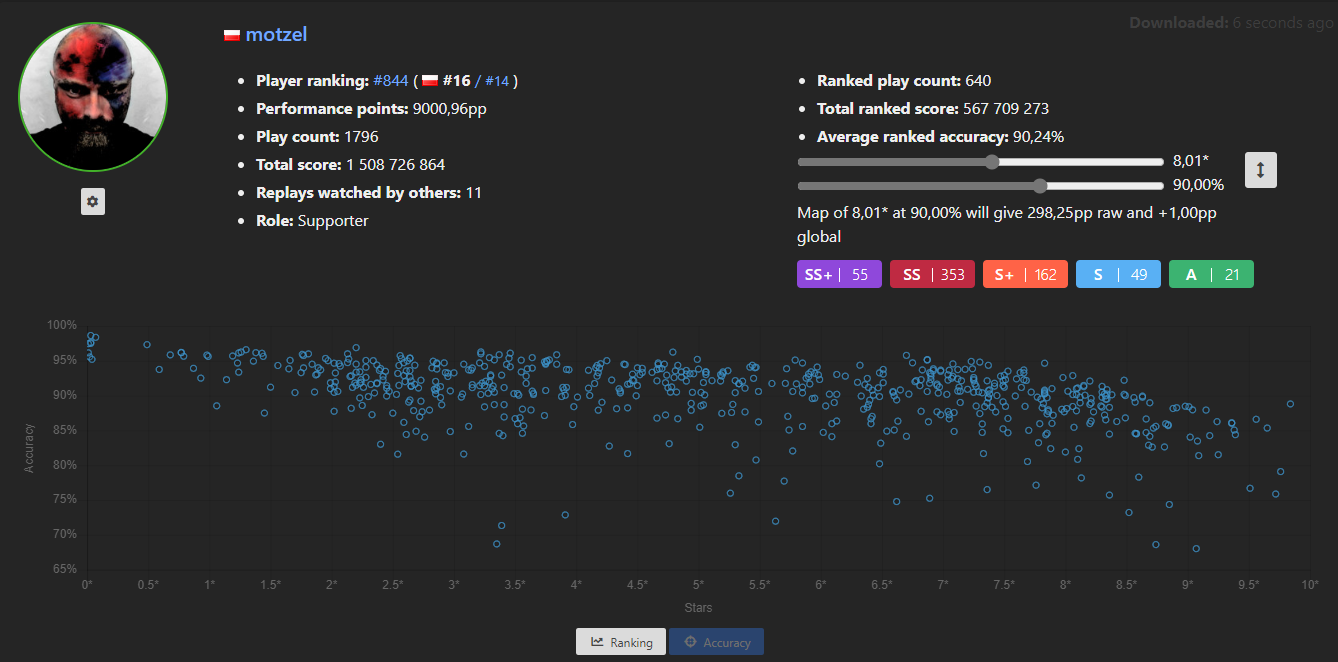
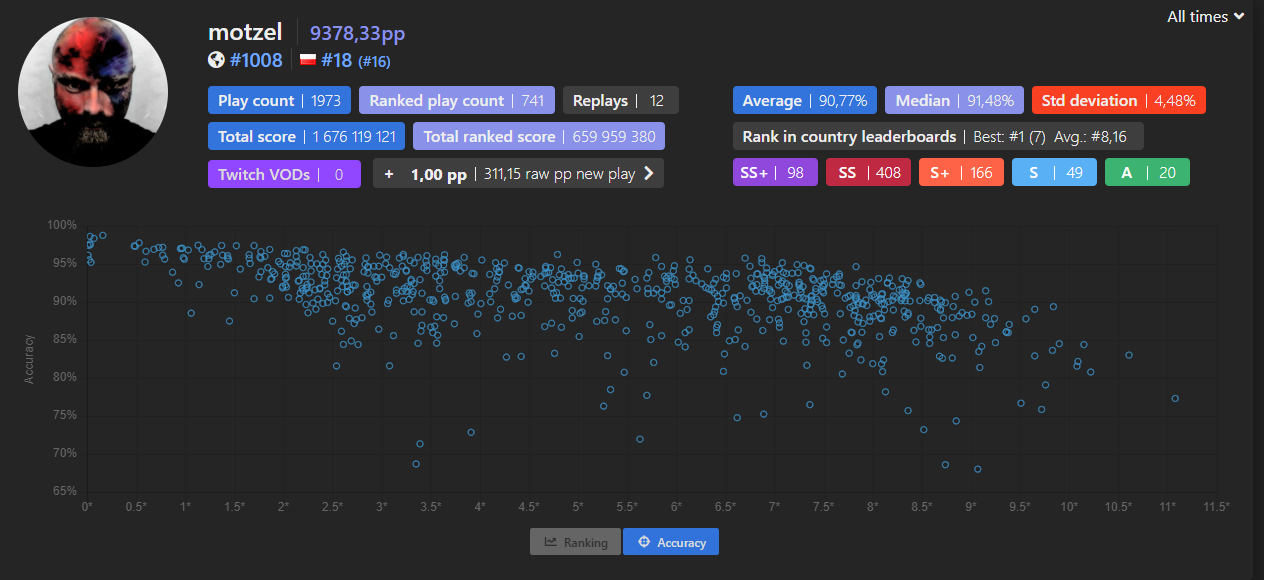
Update CHANGELOG.md and README.md

diff --git a/README.md b/README.md
@@ -1,6 +1,8 @@
 # ScoreSaber Country Leaderboard
 Provides additional features to [ScoreSaber](https://scoresaber.com). See the feature list below.
 
+## UPDATE: After 8 months and 523 commits plugin version 1.0.0 is released! Tons of changes!
+
 # Userscript installation
 Get Tampermonkey for [Chrome/Edge Chromium](https://chrome.google.com/webstore/detail/tampermonkey/dhdgffkkebhmkfjojejmpbldmpobfkfo) or [Firefox](https://addons.mozilla.org/firefox/addon/tampermonkey/). Then install the script from [here](https://github.com/motzel/ScoreSaberCountryLeaderboard/raw/master/dist/scoresaber-country-leaderboard.user.js).
 
@@ -22,7 +24,8 @@ Then, depending on the selected mode:
 
 # Feature list
 
-### Song country leaderboard
+### Song leaderboard
+- Browsing scores and difficulties without reloading the page
 - A country leaderboard for the song
 - Filtering by country or friends
 - Song cover in the background
@@ -52,13 +55,28 @@ Then, depending on the selected mode:
 - Ranked songs badges
 - Enlarged, more readable chart
 - New PP chart
-- New accuracy chart
+- New filterable accuracy chart
+- The latest twitch VODs
+- Automatic profile refreshing
+- Global and country leaderboards
  
 ![](https://github.com/motzel/ScoreSaberCountryLeaderboard/raw/master/doc/04_enhanced_profile.png)
 
-![](https://github.com/motzel/ScoreSaberCountryLeaderboard/raw/master/doc/05_accuracy_chart.png) 
+![](https://github.com/motzel/ScoreSaberCountryLeaderboard/raw/master/doc/05_accuracy_chart.png)
 
-### Song browser
+![](https://github.com/motzel/ScoreSaberCountryLeaderboard/raw/master/doc/14_twitch_and_ppcalc.png)
+
+### Song browser for live data
+
+- Browsing scores without reloading the page
+- Comparing results with other players
+- Integrated song leaderboards
+
+![](https://github.com/motzel/ScoreSaberCountryLeaderboard/raw/master/doc/13_ss_song_browser_1.png)
+
+![](https://github.com/motzel/ScoreSaberCountryLeaderboard/raw/master/doc/13_ss_song_browser_2.png)
+
+### Song browser for cached data
 - Immediate, advanced filtering by the name of the song, song author and map author, type (ranked/unranked/unplayed rankeds) and number of stars.
 - Quickly browse the next page without loading
 - Customizable number of displayed songs per page

diff --git a/CHANGELOG.md b/CHANGELOG.md
@@ -5,6 +5,16 @@
 [!] bug fix
 [*] other changes
 
+1.0.0
+
+- [+] browsing player's scores and songs leaderboards without the page reloading
+- [+] integrated song leaderboard
+- [+] global and country leaderboards on a player's profile
+- [+] the latest Twitch VODs on a player's profile
+- [+] acc chart filterable by period & acc badges
+- [+] compare scores to other players, even not cached ones
+- [+] automatic profile refreshing
+
 0.9.9.8
 - [!] fix fresh start, thx Drakonno
 
